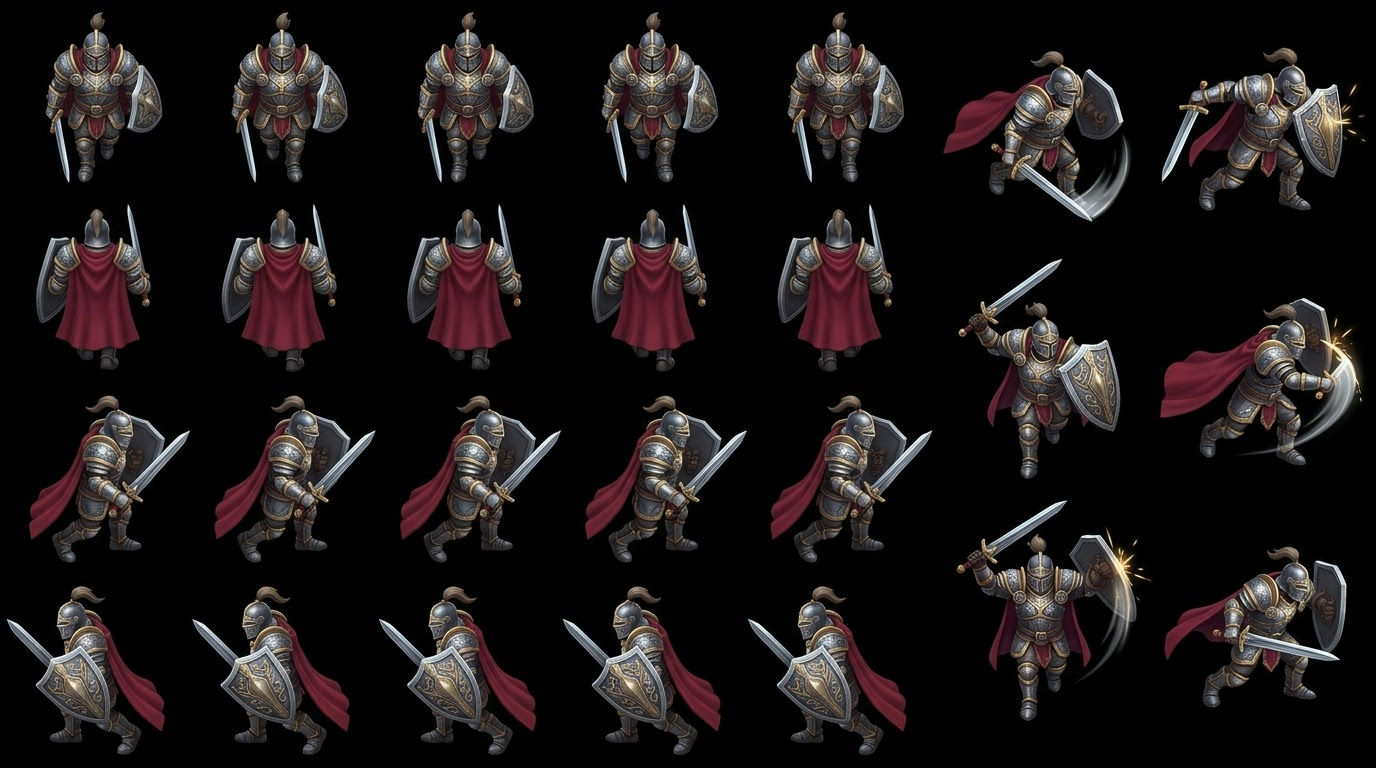
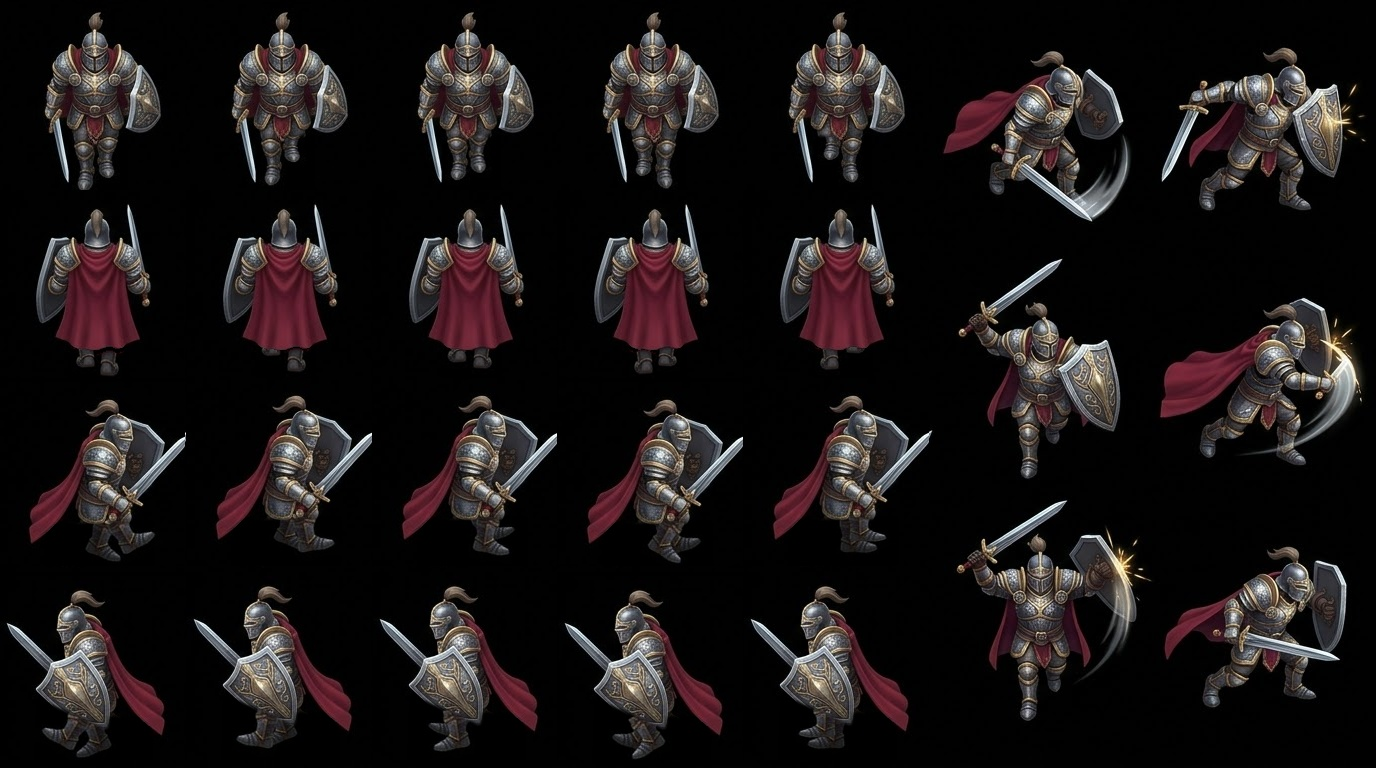
Thornbound: redraw the knight's walking legs
The painted knight sheet barely moved its legs between walk frames (1-8%
frame-to-frame change; the front and back rows only had two leg poses).
tools/redraw_knight_legs.py keeps each row's body from one base frame,
erases the old legs and re-poses one painted leg per frame: a swinging,
lifting stride in the side views and alternating knee raises in the front
and back views. Every frame now has a different leg position.

- The original sheet is kept as source-art/knight-sheet-original.jpg;
  the script writes knight-sheet.jpg, which build_assets.py uses as before
- Lighter step bounce for the knight now that its legs move
- Bump the offline cache version

Claude-Session: https://claude.ai/code/session_014pmKHhP1nRV4NF2kc2q9vi

diff --git a/thornbound/game.js b/thornbound/game.js
@@ -214,8 +214,9 @@ function poseFrame(S, face, flip, anim, moving, pose) {
 }
 // A small bounce and sway on every step, so walking always reads as walking even where
 // neighbouring frames in the art are nearly the same.
-// Armoured characters get a heavier stomp, since their walk frames barely change.
-const STEP = { knight: [2.4, 0.07], skeleton: [1.9, 0.055] };
+// The skeleton gets a heavier stomp, since its walk frames barely change; the knight's legs
+// are redrawn (tools/redraw_knight_legs.py), so it only needs a little extra weight.
+const STEP = { knight: [1.7, 0.05], skeleton: [1.9, 0.055] };
 function stepMotion(anim, moving, kind) {
   if (!moving) return [0, 0];
   const [lift, sway] = STEP[kind] || [1.4, 0.045];

diff --git a/thornbound/sw.js b/thornbound/sw.js
@@ -1,5 +1,5 @@
 // Offline cache for Thornbound. Bump VERSION whenever any cached file changes.
-const VERSION = 'thornbound-v6';
+const VERSION = 'thornbound-v7';
 const ASSETS = ['./', './index.html', './game.js', './manifest.webmanifest', './icon-180.png', './icon-192.png', './icon-512.png',
   './assets/wizard@0.44.webp', './assets/knight@0.44.webp', './assets/skeleton@0.44.webp', './assets/goblin@0.44.webp', './assets/goblin@0.8.webp',
   './assets/ghost@0.44.webp', './assets/ghost@0.8.webp', './assets/crystal32.webp', './assets/crystal64.webp', './assets/crystal160.webp',

diff --git a/thornbound/tools/redraw_knight_legs.py b/thornbound/tools/redraw_knight_legs.py
@@ -1,0 +1,140 @@
+# Redraws the knight's walk legs, since the painted sheet's walk frames barely move them.
+# For each walk row one base frame keeps its body; its legs are erased, and one painted leg
+# from that frame is re-posed at the hips for every frame (swung, lifted, foreshortened).
+# Reads source-art/knight-sheet-original.jpg, writes source-art/knight-sheet.jpg (same layout),
+# which build_assets.py then turns into the game atlas.
+# Usage: python3 tools/redraw_knight_legs.py [preview.png]
+import os, sys, math
+import numpy as np
+from PIL import Image, ImageDraw, ImageFilter
+import build_assets as B
+
+HERE = os.path.dirname(os.path.abspath(__file__))
+ZW, ZH = 186, B.ROW_H        # walk zone around each frame, as build_assets crops it
+A = 30                       # side-view leg swing, degrees either way
+STANCE = 0.6                 # share of the cycle a foot is on the ground
+
+# Coordinates are zone pixels: x from the zone's left, y measured UP from the feet line.
+# leg: polygon of the painted leg to reuse, pivot = its hip; erase: polygon of the old legs
+# (red cape pixels inside it are kept); hips: where the near and far leg hang.
+ROWS = {
+    'down':  dict(base=2, view='front', leg=[(73, 2), (99, 2), (99, 62), (73, 62)], pivot=(86, 60),
+                  erase=[(72, 0), (125, 0), (125, 54), (72, 54)], hips=[(86, 60), (108, 60)], axis=97),
+    'up':    dict(base=0, view='front', leg=[(98, 2), (124, 2), (124, 36), (98, 36)], pivot=(110, 36),
+                  erase=[(72, 0), (126, 0), (126, 33), (72, 33)], hips=[(110, 36), (87, 36)], axis=98.5),
+    'right': dict(base=0, view='side', leg=[(107, 8), (146, 8), (146, 24), (130, 32), (128, 53), (107, 53)], pivot=(118, 50),
+                  erase=[(48, 0), (152, 0), (152, 47), (48, 47)], hips=[(115, 50), (106, 50)], mirror=False),
+    'left':  dict(base=0, view='side', leg=None, pivot=None,
+                  erase=[(38, 0), (150, 0), (150, 48), (111, 48), (108, 35), (40, 65)], hips=[(84, 48), (93, 48)], mirror=True),
+}
+LEFT_LEG_FROM = 'right'      # the left row's legs are hidden by the shield: reuse the right row's leg, mirrored
+
+
+def Y(y_up):
+    return ZH - y_up
+
+
+def poly_mask(pts, feather=1.2):
+    m = Image.new('L', (ZW, ZH), 0)
+    ImageDraw.Draw(m).polygon([(x, Y(y)) for x, y in pts], fill=255)
+    return np.asarray(m.filter(ImageFilter.GaussianBlur(feather))).astype(np.float32) / 255
+
+
+def is_red(px):
+    r, g, b = px[..., 0], px[..., 1], px[..., 2]
+    return (r > 45) & (r > g * 1.5) & (r > b * 1.25)
+
+
+PAD = 4  # the sheet is padded, since the first walk column's zone starts just off its left edge
+
+
+def zone_slice(row, i):
+    x0, b = B.WALK_X[i] - ZW // 2 + PAD, B.WALK_BOTTOM[row] + PAD
+    return slice(b - ZH, b), slice(x0, x0 + ZW)
+
+
+def zone_of(rgb, alpha, row, i):
+    sl = zone_slice(row, i)
+    return np.dstack([rgb[sl], alpha[sl][..., None] * 255]).astype(np.float32)  # premultiplied: RGB already sits on black
+
+
+def place(piece, pivot, hip, angle, sy, mirror, sx=1.0):
+    """Affine-place a premultiplied RGBA leg: scale along the leg (sy), optional mirror, rotate by angle
+    (degrees, + = foot towards +x), with the source pivot landing on hip."""
+    t = math.radians(angle)
+    c, s = math.cos(t), math.sin(t)
+    mx = -1 if mirror else 1
+    # forward: q = H + R @ S @ M @ (p - P), R = [[c, s], [-s, c]], S = diag(sx, sy), M = diag(mx, 1)
+    F = np.array([[c, s], [-s, c]]) @ np.diag([sx, sy]) @ np.diag([mx, 1])
+    Fi = np.linalg.inv(F)
+    P = np.array([pivot[0], Y(pivot[1])], float); H = np.array([hip[0], Y(hip[1])], float)
+    off = P - Fi @ H
+    chans = [Image.fromarray(piece[..., k]).transform((ZW, ZH), Image.AFFINE,
+             (Fi[0, 0], Fi[0, 1], off[0], Fi[1, 0], Fi[1, 1], off[1]), Image.BICUBIC) for k in range(4)]
+    out = np.dstack([np.asarray(ch) for ch in chans])
+    return np.clip(out, 0, None)
+
+
+def over(top, bottom):
+    return top + bottom * (1 - top[..., 3:4] / 255)
+
+
+def cycle(u):
+    """Leg angle (in units of A, + = forward) and lift (0..1) at cycle position u."""
+    u %= 1
+    if u < STANCE:
+        return 1 - 2 * u / STANCE, 0.0
+    s = (u - STANCE) / (1 - STANCE)
+    e = s * s * (3 - 2 * s)
+    return -1 + 2 * e, math.sin(math.pi * s)
+
+
+def main(preview=None):
+    src = Image.open(os.path.join(B.SRC, 'knight-sheet-original.jpg')).convert('RGB')
+    rgb = np.pad(np.asarray(src).astype(np.float32), ((PAD, PAD), (PAD, PAD), (0, 0)))
+    alpha = np.pad(np.asarray(B.cutout(src, glow=False))[..., 3].astype(np.float32) / 255, PAD)
+    out = rgb.copy()
+    legs = {}
+    for r, (name, cfg) in enumerate(ROWS.items()):
+        base = zone_of(rgb, alpha, r, cfg['base'])
+        red = is_red(base)
+        if cfg['leg']:
+            legs[name] = base * (poly_mask(cfg['leg'], 0.6) * ~red)[..., None]
+        leg = legs[name] if cfg['leg'] else legs[LEFT_LEG_FROM]
+        pivot = cfg['pivot'] or ROWS[LEFT_LEG_FROM]['pivot']
+        body = base * (1 - poly_mask(cfg['erase']) * ~red)[..., None]
+        for i in range(5):
+            frame = np.zeros_like(base)
+            poses = [cycle(i / 5), cycle(i / 5 + 0.5)]       # near leg, far leg (front view: left, right)
+            if cfg['view'] == 'side':
+                planted = max((p for p in poses if p[1] == 0), key=lambda p: abs(p[0]), default=poses[0])
+                drop = 39 * (1 - math.cos(math.radians(planted[0] * A)))  # lower the hips so the planted foot stays down
+                drop = round(drop * 0.8)
+                for k in (1, 0):                              # far leg first, darker
+                    ang, lift = poses[k]
+                    hx, hy = cfg['hips'][k]
+                    sign = -1 if cfg.get('mirror') else 1
+                    piece = place(leg, pivot, (hx, hy - drop + lift * 5), sign * ang * A, 1.06 - 0.18 * lift, cfg.get('mirror', False), 1.15)
+                    if k == 1: piece[..., :3] *= 0.72
+                    frame = over(piece, frame)
+                shifted = np.zeros_like(body); shifted[drop:] = body[:ZH - drop] if drop else body
+                frame = over(shifted, frame)
+            else:
+                for k in (0, 1):
+                    ang, lift = poses[k]
+                    # knee raise: the lifted leg rides up under the tassets / cape and foreshortens;
+                    # the leading foot reaches a little lower (towards the viewer)
+                    sy = 1 + 0.12 * ang - 0.12 * lift
+                    hx, hy = cfg['hips'][k]
+                    rise = lift * (16 if name == 'down' else 13) - max(0, ang) * 3
+                    frame = over(place(leg, pivot, (hx + (lift * 2 if k == 0 else -lift * 2), hy + rise), 0, sy, k == 1), frame)
+                frame = over(body, frame)
+            out[zone_slice(r, i)] = np.clip(frame[..., :3], 0, 255)
+    out = out[PAD:-PAD, PAD:-PAD]
+    Image.fromarray(out.astype(np.uint8)).save(os.path.join(B.SRC, 'knight-sheet.jpg'), quality=95)
+    if preview:
+        Image.fromarray(out.astype(np.uint8)).crop((0, 0, 930, 768)).save(preview)
+
+
+if __name__ == '__main__':
+    main(*sys.argv[1:])
